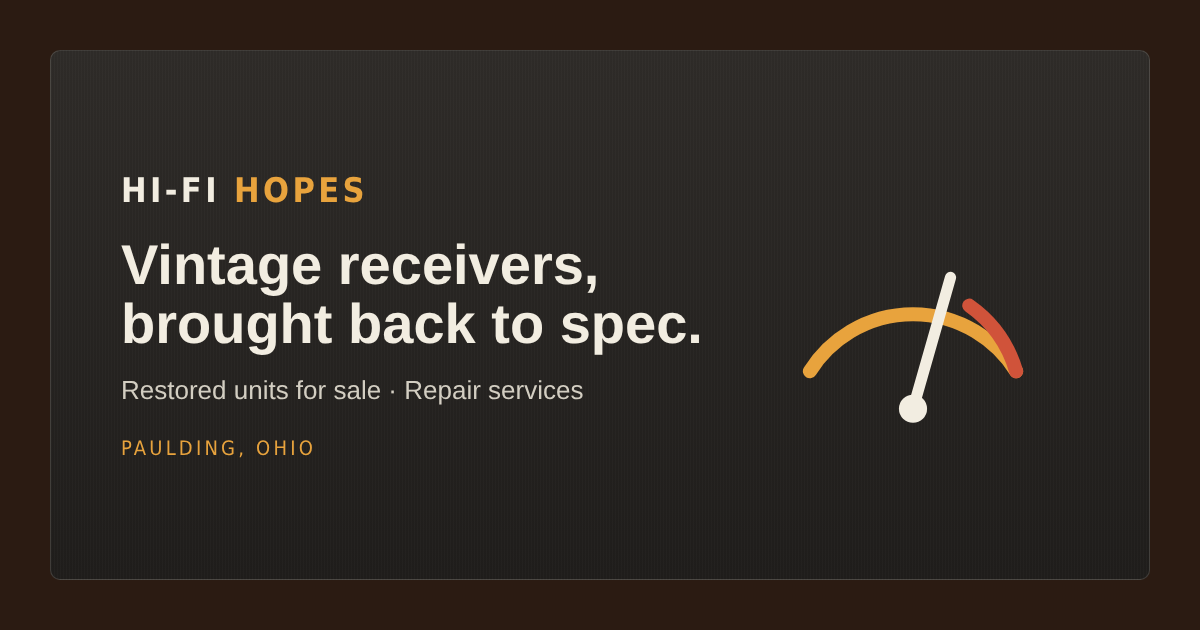
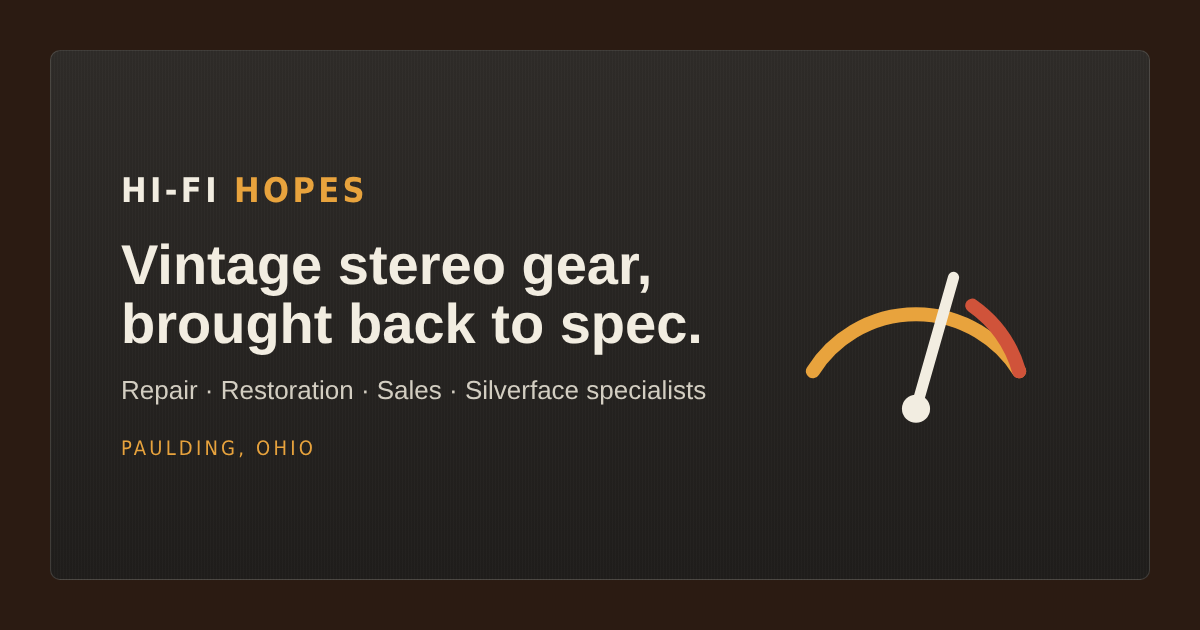
Broaden hero copy to vintage hi-fi with a silverface specialty
- New headline and subhead covering receivers, amps, turntables and tape decks
- Title, meta description, share text and image updated to match
- Repairs: wider brand list, turntable and tape deck service
- Promise strip: Silverface specialists

Claude-Session: https://claude.ai/code/session_01Rd7sAYLq8ZdHBo87zQ95Ka

diff --git a/index.html b/index.html
@@ -3,16 +3,16 @@
 <head>
 <meta charset="UTF-8">
 <meta name="viewport" content="width=device-width, initial-scale=1.0, viewport-fit=cover">
-<title>Hi-Fi Hopes · Vintage Receiver Repair &amp; Restoration · Paulding, Ohio</title>
-<meta name="description" content="Restored 1970s Marantz, Sansui, Pioneer, Kenwood and Yamaha receivers for sale, plus vintage receiver repair in Paulding, Ohio. Every unit ships with a service sheet.">
+<title>Hi-Fi Hopes · Vintage Hi-Fi Repair &amp; Restoration · Paulding, Ohio</title>
+<meta name="description" content="Vintage stereo repair and restored gear for sale in Paulding, Ohio. Receivers, amps, turntables and tape decks from the '70s and '80s, with a specialty in silverface. Every unit gets a service sheet.">
 <link rel="canonical" href="https://hifihopes.com/">
 <link rel="icon" href="favicon.svg" type="image/svg+xml">
 <meta name="theme-color" content="#1c110b">
 
 <meta property="og:type" content="website">
 <meta property="og:url" content="https://hifihopes.com/">
-<meta property="og:title" content="Hi-Fi Hopes · Vintage Receiver Repair &amp; Restoration">
-<meta property="og:description" content="Restored silverface-era receivers for sale and vintage receiver repair in Paulding, Ohio.">
+<meta property="og:title" content="Hi-Fi Hopes · Vintage Hi-Fi Repair &amp; Restoration">
+<meta property="og:description" content="Vintage stereo repair and restored gear for sale in Paulding, Ohio. Silverface is our specialty.">
 <meta property="og:image" content="https://hifihopes.com/og-image.png">
 <meta property="og:image:width" content="1200">
 <meta property="og:image:height" content="630">
@@ -26,7 +26,7 @@
   "url": "https://hifihopes.com/",
   "email": "dan@hifihopes.com",
   "telephone": "+1-419-669-6277",
-  "description": "Vintage receiver repair, restoration and sales.",
+  "description": "Vintage hi-fi repair, restoration and sales, specializing in 1970s silverface.",
   "image": "https://hifihopes.com/og-image.png",
   "address": {
     "@type": "PostalAddress",
@@ -477,9 +477,9 @@
   <div class="wrap hero">
     <div class="faceplate">
       <div class="hero-copy">
-        <p class="label">Repair &amp; Restoration · Sales</p>
-        <h1>Vintage receivers, brought back to spec.</h1>
-        <p>Marantz, Sansui, Pioneer, Kenwood and Yamaha receivers from the 1970s, serviced and measured on the bench in Paulding, Ohio. Buy one restored, or bring yours in for repair.</p>
+        <p class="label">Vintage Hi-Fi Repair · Restoration · Sales</p>
+        <h1>Vintage stereo gear, brought back to spec.</h1>
+        <p>Receivers, amps, turntables and tape decks from the '70s and '80s, serviced and measured on the bench in Paulding, Ohio. Silverface is our specialty. Buy one restored, or bring yours in.</p>
         <div class="cta-row">
           <a href="#shop" class="btn btn-primary">Shop restored units</a>
           <a href="#repairs" class="btn btn-ghost">Book a repair</a>
@@ -535,7 +535,7 @@
 
     <ul class="promises" aria-label="What you get">
       <li><span class="dot"></span>Service sheet with every unit</li>
-      <li><span class="dot"></span>Bias &amp; offset set to spec</li>
+      <li><span class="dot"></span>Silverface specialists</li>
       <li><span class="dot"></span>Pickup in Paulding, OH</li>
       <li><span class="dot"></span>Se habla español</li>
     </ul>
@@ -575,9 +575,10 @@
           <li>Dark dial and meter lamps (LED conversion)</li>
           <li>Scratchy volume, switches and pots</li>
           <li>Failing capacitors</li>
+          <li>Turntable and tape deck service</li>
           <li>Bias and DC offset alignment</li>
         </ul>
-        <p class="brands"><strong>Brands:</strong> Marantz, Sansui, Pioneer, Kenwood, Yamaha, Technics, Fisher and other 1970s receivers and integrated amps.</p>
+        <p class="brands"><strong>Brands:</strong> Marantz, Sansui, Pioneer, Kenwood, Yamaha, Technics, Fisher, Sony, Akai and most other '70s–'80s brands.</p>
 
         <ol class="steps" aria-label="How a repair works">
           <li><div><strong>Tell me what's wrong</strong><span>Use the form or call. Photos help.</span></div></li>
@@ -666,7 +667,7 @@
     </div>
     <div class="about" id="about-grid">
       <div class="about-copy">
-        <p>Hi-Fi Hopes is a one-person restoration shop in Paulding, Ohio, focused on silverface-era receivers from Marantz, Sansui, Pioneer, Kenwood and Yamaha.</p>
+        <p>Hi-Fi Hopes is a one-person repair and restoration shop in Paulding, Ohio. I work on vintage receivers, amps, turntables and tape decks, with a specialty in 1970s silverface from Marantz, Sansui, Pioneer, Kenwood and Yamaha.</p>
         <p>Every unit gets the same treatment: capacitors screened and replaced where they've drifted, bias and offset set against the service manual, dial lighting restored with warm-white LEDs, and contacts cleaned before anything goes back together. Nothing leaves the bench until it measures right.</p>
         <p>Hi-Fi Hopes, LLC is registered in Ohio.</p>
       </div>
